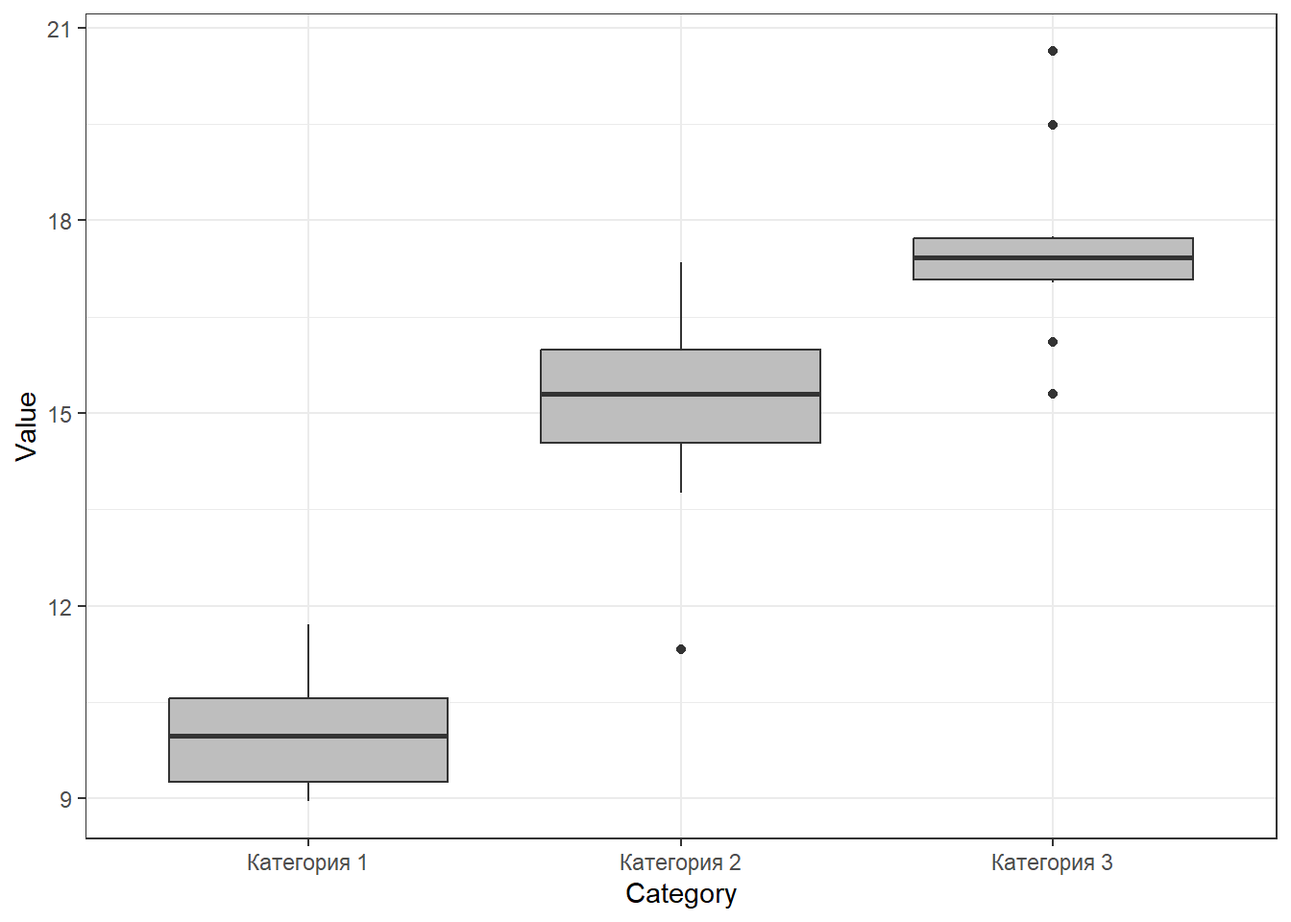
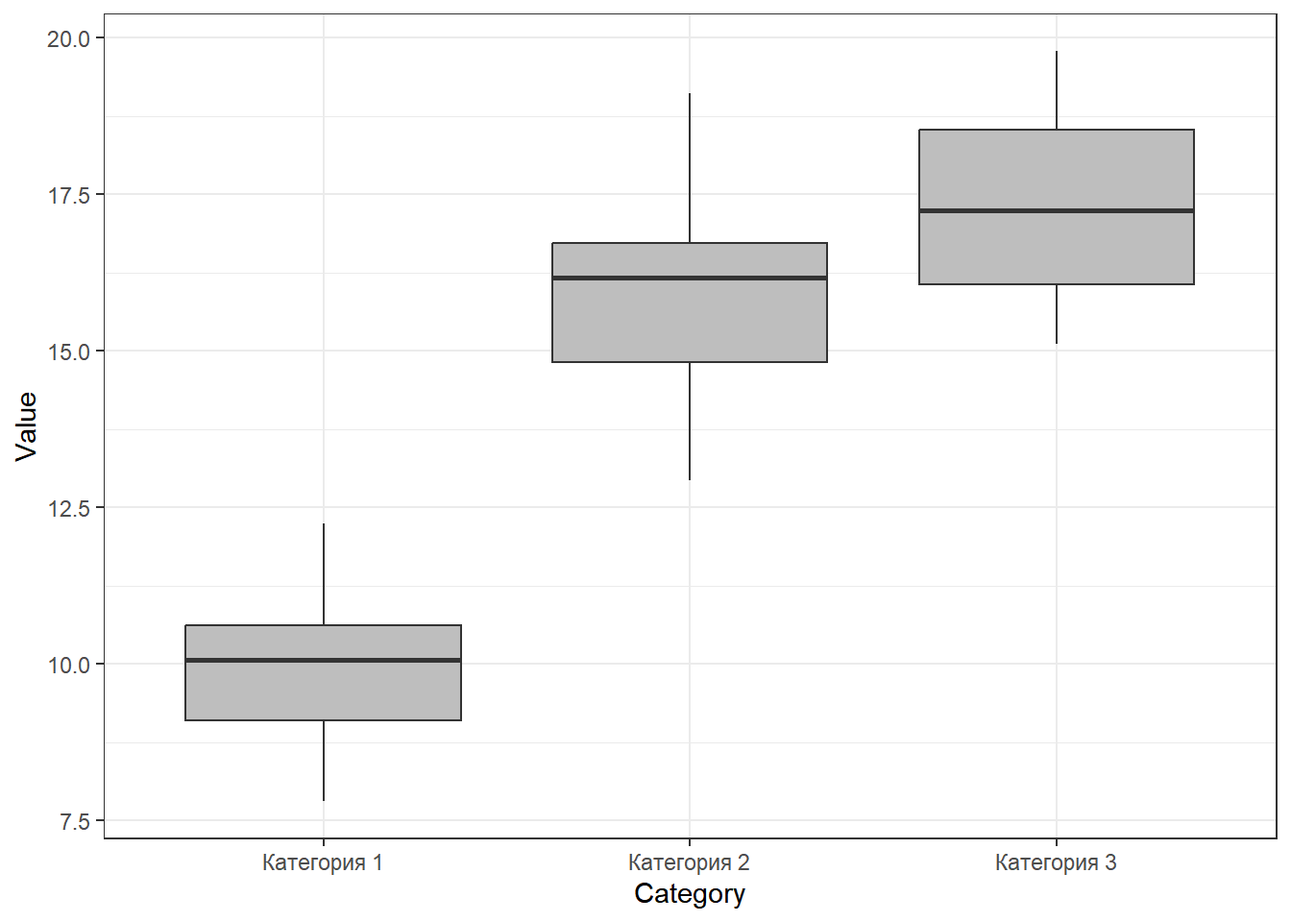
open Anova

diff --git a/lectures.html b/lectures.html
@@ -527,7 +527,7 @@ virginica.</p>
 набить в экселе.</p>
 <p>Для примера, решение аналогичного задания, для вида “setosa” по
 переменной <code>iris$Sepal.Width</code> будет выглядеть вот так.</p>
-<div class="tabwid"><style>.cl-52a8c24a{}.cl-52939852{font-family:'Arial';font-size:11pt;font-weight:normal;font-style:normal;text-decoration:none;color:rgba(0, 0, 0, 1.00);background-color:transparent;}.cl-529c959c{margin:0;text-align:left;border-bottom: 0 solid rgba(0, 0, 0, 1.00);border-top: 0 solid rgba(0, 0, 0, 1.00);border-left: 0 solid rgba(0, 0, 0, 1.00);border-right: 0 solid rgba(0, 0, 0, 1.00);padding-bottom:5pt;padding-top:5pt;padding-left:5pt;padding-right:5pt;line-height: 1;background-color:transparent;}.cl-529c95b0{margin:0;text-align:right;border-bottom: 0 solid rgba(0, 0, 0, 1.00);border-top: 0 solid rgba(0, 0, 0, 1.00);border-left: 0 solid rgba(0, 0, 0, 1.00);border-right: 0 solid rgba(0, 0, 0, 1.00);padding-bottom:5pt;padding-top:5pt;padding-left:5pt;padding-right:5pt;line-height: 1;background-color:transparent;}.cl-529cdb7e{width:0.75in;background-color:transparent;vertical-align: middle;border-bottom: 1.5pt solid rgba(102, 102, 102, 1.00);border-top: 1.5pt solid rgba(102, 102, 102, 1.00);border-left: 0 solid rgba(0, 0, 0, 1.00);border-right: 0 solid rgba(0, 0, 0, 1.00);margin-bottom:0;margin-top:0;margin-left:0;margin-right:0;}.cl-529cdb88{width:0.75in;background-color:transparent;vertical-align: middle;border-bottom: 1.5pt solid rgba(102, 102, 102, 1.00);border-top: 1.5pt solid rgba(102, 102, 102, 1.00);border-left: 0 solid rgba(0, 0, 0, 1.00);border-right: 0 solid rgba(0, 0, 0, 1.00);margin-bottom:0;margin-top:0;margin-left:0;margin-right:0;}.cl-529cdb92{width:0.75in;background-color:transparent;vertical-align: middle;border-bottom: 0 solid rgba(0, 0, 0, 1.00);border-top: 0 solid rgba(0, 0, 0, 1.00);border-left: 0 solid rgba(0, 0, 0, 1.00);border-right: 0 solid rgba(0, 0, 0, 1.00);margin-bottom:0;margin-top:0;margin-left:0;margin-right:0;}.cl-529cdb9c{width:0.75in;background-color:transparent;vertical-align: middle;border-bottom: 0 solid rgba(0, 0, 0, 1.00);border-top: 0 solid rgba(0, 0, 0, 1.00);border-left: 0 solid rgba(0, 0, 0, 1.00);border-right: 0 solid rgba(0, 0, 0, 1.00);margin-bottom:0;margin-top:0;margin-left:0;margin-right:0;}.cl-529cdb9d{width:0.75in;background-color:transparent;vertical-align: middle;border-bottom: 1.5pt solid rgba(102, 102, 102, 1.00);border-top: 0 solid rgba(0, 0, 0, 1.00);border-left: 0 solid rgba(0, 0, 0, 1.00);border-right: 0 solid rgba(0, 0, 0, 1.00);margin-bottom:0;margin-top:0;margin-left:0;margin-right:0;}.cl-529cdb9e{width:0.75in;background-color:transparent;vertical-align: middle;border-bottom: 1.5pt solid rgba(102, 102, 102, 1.00);border-top: 0 solid rgba(0, 0, 0, 1.00);border-left: 0 solid rgba(0, 0, 0, 1.00);border-right: 0 solid rgba(0, 0, 0, 1.00);margin-bottom:0;margin-top:0;margin-left:0;margin-right:0;}</style><table data-quarto-disable-processing='true' class='cl-52a8c24a'><thead><tr style="overflow-wrap:break-word;"><th class="cl-529cdb7e"><p class="cl-529c959c"><span class="cl-52939852">Sepal.Width</span></p></th><th class="cl-529cdb88"><p class="cl-529c95b0"><span class="cl-52939852">Frequency</span></p></th></tr></thead><tbody><tr style="overflow-wrap:break-word;"><td class="cl-529cdb92"><p class="cl-529c959c"><span class="cl-52939852">2.3</span></p></td><td class="cl-529cdb9c"><p class="cl-529c95b0"><span class="cl-52939852">1</span></p></td></tr><tr style="overflow-wrap:break-word;"><td class="cl-529cdb92"><p class="cl-529c959c"><span class="cl-52939852">2.9</span></p></td><td class="cl-529cdb9c"><p class="cl-529c95b0"><span class="cl-52939852">1</span></p></td></tr><tr style="overflow-wrap:break-word;"><td class="cl-529cdb92"><p class="cl-529c959c"><span class="cl-52939852">3</span></p></td><td class="cl-529cdb9c"><p class="cl-529c95b0"><span class="cl-52939852">6</span></p></td></tr><tr style="overflow-wrap:break-word;"><td class="cl-529cdb92"><p class="cl-529c959c"><span class="cl-52939852">3.1</span></p></td><td class="cl-529cdb9c"><p class="cl-529c95b0"><span class="cl-52939852">4</span></p></td></tr><tr style="overflow-wrap:break-word;"><td class="cl-529cdb92"><p class="cl-529c959c"><span class="cl-52939852">3.2</span></p></td><td class="cl-529cdb9c"><p class="cl-529c95b0"><span class="cl-52939852">5</span></p></td></tr><tr style="overflow-wrap:break-word;"><td class="cl-529cdb92"><p class="cl-529c959c"><span class="cl-52939852">3.3</span></p></td><td class="cl-529cdb9c"><p class="cl-529c95b0"><span class="cl-52939852">2</span></p></td></tr><tr style="overflow-wrap:break-word;"><td class="cl-529cdb92"><p class="cl-529c959c"><span class="cl-52939852">3.4</span></p></td><td class="cl-529cdb9c"><p class="cl-529c95b0"><span class="cl-52939852">9</span></p></td></tr><tr style="overflow-wrap:break-word;"><td class="cl-529cdb92"><p class="cl-529c959c"><span class="cl-52939852">3.5</span></p></td><td class="cl-529cdb9c"><p class="cl-529c95b0"><span class="cl-52939852">6</span></p></td></tr><tr style="overflow-wrap:break-word;"><td class="cl-529cdb92"><p class="cl-529c959c"><span class="cl-52939852">3.6</span></p></td><td class="cl-529cdb9c"><p class="cl-529c95b0"><span class="cl-52939852">3</span></p></td></tr><tr style="overflow-wrap:break-word;"><td class="cl-529cdb92"><p class="cl-529c959c"><span class="cl-52939852">3.7</span></p></td><td class="cl-529cdb9c"><p class="cl-529c95b0"><span class="cl-52939852">3</span></p></td></tr><tr style="overflow-wrap:break-word;"><td class="cl-529cdb92"><p class="cl-529c959c"><span class="cl-52939852">3.8</span></p></td><td class="cl-529cdb9c"><p class="cl-529c95b0"><span class="cl-52939852">4</span></p></td></tr><tr style="overflow-wrap:break-word;"><td class="cl-529cdb92"><p class="cl-529c959c"><span class="cl-52939852">3.9</span></p></td><td class="cl-529cdb9c"><p class="cl-529c95b0"><span class="cl-52939852">2</span></p></td></tr><tr style="overflow-wrap:break-word;"><td class="cl-529cdb92"><p class="cl-529c959c"><span class="cl-52939852">4</span></p></td><td class="cl-529cdb9c"><p class="cl-529c95b0"><span class="cl-52939852">1</span></p></td></tr><tr style="overflow-wrap:break-word;"><td class="cl-529cdb92"><p class="cl-529c959c"><span class="cl-52939852">4.1</span></p></td><td class="cl-529cdb9c"><p class="cl-529c95b0"><span class="cl-52939852">1</span></p></td></tr><tr style="overflow-wrap:break-word;"><td class="cl-529cdb92"><p class="cl-529c959c"><span class="cl-52939852">4.2</span></p></td><td class="cl-529cdb9c"><p class="cl-529c95b0"><span class="cl-52939852">1</span></p></td></tr><tr style="overflow-wrap:break-word;"><td class="cl-529cdb9d"><p class="cl-529c959c"><span class="cl-52939852">4.4</span></p></td><td class="cl-529cdb9e"><p class="cl-529c95b0"><span class="cl-52939852">1</span></p></td></tr></tbody></table></div>
+<div class="tabwid"><style>.cl-f9214288{}.cl-f9028e9c{font-family:'Arial';font-size:11pt;font-weight:normal;font-style:normal;text-decoration:none;color:rgba(0, 0, 0, 1.00);background-color:transparent;}.cl-f90c166a{margin:0;text-align:left;border-bottom: 0 solid rgba(0, 0, 0, 1.00);border-top: 0 solid rgba(0, 0, 0, 1.00);border-left: 0 solid rgba(0, 0, 0, 1.00);border-right: 0 solid rgba(0, 0, 0, 1.00);padding-bottom:5pt;padding-top:5pt;padding-left:5pt;padding-right:5pt;line-height: 1;background-color:transparent;}.cl-f90c1674{margin:0;text-align:right;border-bottom: 0 solid rgba(0, 0, 0, 1.00);border-top: 0 solid rgba(0, 0, 0, 1.00);border-left: 0 solid rgba(0, 0, 0, 1.00);border-right: 0 solid rgba(0, 0, 0, 1.00);padding-bottom:5pt;padding-top:5pt;padding-left:5pt;padding-right:5pt;line-height: 1;background-color:transparent;}.cl-f90c5a44{width:0.75in;background-color:transparent;vertical-align: middle;border-bottom: 1.5pt solid rgba(102, 102, 102, 1.00);border-top: 1.5pt solid rgba(102, 102, 102, 1.00);border-left: 0 solid rgba(0, 0, 0, 1.00);border-right: 0 solid rgba(0, 0, 0, 1.00);margin-bottom:0;margin-top:0;margin-left:0;margin-right:0;}.cl-f90c5a58{width:0.75in;background-color:transparent;vertical-align: middle;border-bottom: 1.5pt solid rgba(102, 102, 102, 1.00);border-top: 1.5pt solid rgba(102, 102, 102, 1.00);border-left: 0 solid rgba(0, 0, 0, 1.00);border-right: 0 solid rgba(0, 0, 0, 1.00);margin-bottom:0;margin-top:0;margin-left:0;margin-right:0;}.cl-f90c5a59{width:0.75in;background-color:transparent;vertical-align: middle;border-bottom: 0 solid rgba(0, 0, 0, 1.00);border-top: 0 solid rgba(0, 0, 0, 1.00);border-left: 0 solid rgba(0, 0, 0, 1.00);border-right: 0 solid rgba(0, 0, 0, 1.00);margin-bottom:0;margin-top:0;margin-left:0;margin-right:0;}.cl-f90c5a62{width:0.75in;background-color:transparent;vertical-align: middle;border-bottom: 0 solid rgba(0, 0, 0, 1.00);border-top: 0 solid rgba(0, 0, 0, 1.00);border-left: 0 solid rgba(0, 0, 0, 1.00);border-right: 0 solid rgba(0, 0, 0, 1.00);margin-bottom:0;margin-top:0;margin-left:0;margin-right:0;}.cl-f90c5a6c{width:0.75in;background-color:transparent;vertical-align: middle;border-bottom: 1.5pt solid rgba(102, 102, 102, 1.00);border-top: 0 solid rgba(0, 0, 0, 1.00);border-left: 0 solid rgba(0, 0, 0, 1.00);border-right: 0 solid rgba(0, 0, 0, 1.00);margin-bottom:0;margin-top:0;margin-left:0;margin-right:0;}.cl-f90c5a6d{width:0.75in;background-color:transparent;vertical-align: middle;border-bottom: 1.5pt solid rgba(102, 102, 102, 1.00);border-top: 0 solid rgba(0, 0, 0, 1.00);border-left: 0 solid rgba(0, 0, 0, 1.00);border-right: 0 solid rgba(0, 0, 0, 1.00);margin-bottom:0;margin-top:0;margin-left:0;margin-right:0;}</style><table data-quarto-disable-processing='true' class='cl-f9214288'><thead><tr style="overflow-wrap:break-word;"><th class="cl-f90c5a44"><p class="cl-f90c166a"><span class="cl-f9028e9c">Sepal.Width</span></p></th><th class="cl-f90c5a58"><p class="cl-f90c1674"><span class="cl-f9028e9c">Frequency</span></p></th></tr></thead><tbody><tr style="overflow-wrap:break-word;"><td class="cl-f90c5a59"><p class="cl-f90c166a"><span class="cl-f9028e9c">2.3</span></p></td><td class="cl-f90c5a62"><p class="cl-f90c1674"><span class="cl-f9028e9c">1</span></p></td></tr><tr style="overflow-wrap:break-word;"><td class="cl-f90c5a59"><p class="cl-f90c166a"><span class="cl-f9028e9c">2.9</span></p></td><td class="cl-f90c5a62"><p class="cl-f90c1674"><span class="cl-f9028e9c">1</span></p></td></tr><tr style="overflow-wrap:break-word;"><td class="cl-f90c5a59"><p class="cl-f90c166a"><span class="cl-f9028e9c">3</span></p></td><td class="cl-f90c5a62"><p class="cl-f90c1674"><span class="cl-f9028e9c">6</span></p></td></tr><tr style="overflow-wrap:break-word;"><td class="cl-f90c5a59"><p class="cl-f90c166a"><span class="cl-f9028e9c">3.1</span></p></td><td class="cl-f90c5a62"><p class="cl-f90c1674"><span class="cl-f9028e9c">4</span></p></td></tr><tr style="overflow-wrap:break-word;"><td class="cl-f90c5a59"><p class="cl-f90c166a"><span class="cl-f9028e9c">3.2</span></p></td><td class="cl-f90c5a62"><p class="cl-f90c1674"><span class="cl-f9028e9c">5</span></p></td></tr><tr style="overflow-wrap:break-word;"><td class="cl-f90c5a59"><p class="cl-f90c166a"><span class="cl-f9028e9c">3.3</span></p></td><td class="cl-f90c5a62"><p class="cl-f90c1674"><span class="cl-f9028e9c">2</span></p></td></tr><tr style="overflow-wrap:break-word;"><td class="cl-f90c5a59"><p class="cl-f90c166a"><span class="cl-f9028e9c">3.4</span></p></td><td class="cl-f90c5a62"><p class="cl-f90c1674"><span class="cl-f9028e9c">9</span></p></td></tr><tr style="overflow-wrap:break-word;"><td class="cl-f90c5a59"><p class="cl-f90c166a"><span class="cl-f9028e9c">3.5</span></p></td><td class="cl-f90c5a62"><p class="cl-f90c1674"><span class="cl-f9028e9c">6</span></p></td></tr><tr style="overflow-wrap:break-word;"><td class="cl-f90c5a59"><p class="cl-f90c166a"><span class="cl-f9028e9c">3.6</span></p></td><td class="cl-f90c5a62"><p class="cl-f90c1674"><span class="cl-f9028e9c">3</span></p></td></tr><tr style="overflow-wrap:break-word;"><td class="cl-f90c5a59"><p class="cl-f90c166a"><span class="cl-f9028e9c">3.7</span></p></td><td class="cl-f90c5a62"><p class="cl-f90c1674"><span class="cl-f9028e9c">3</span></p></td></tr><tr style="overflow-wrap:break-word;"><td class="cl-f90c5a59"><p class="cl-f90c166a"><span class="cl-f9028e9c">3.8</span></p></td><td class="cl-f90c5a62"><p class="cl-f90c1674"><span class="cl-f9028e9c">4</span></p></td></tr><tr style="overflow-wrap:break-word;"><td class="cl-f90c5a59"><p class="cl-f90c166a"><span class="cl-f9028e9c">3.9</span></p></td><td class="cl-f90c5a62"><p class="cl-f90c1674"><span class="cl-f9028e9c">2</span></p></td></tr><tr style="overflow-wrap:break-word;"><td class="cl-f90c5a59"><p class="cl-f90c166a"><span class="cl-f9028e9c">4</span></p></td><td class="cl-f90c5a62"><p class="cl-f90c1674"><span class="cl-f9028e9c">1</span></p></td></tr><tr style="overflow-wrap:break-word;"><td class="cl-f90c5a59"><p class="cl-f90c166a"><span class="cl-f9028e9c">4.1</span></p></td><td class="cl-f90c5a62"><p class="cl-f90c1674"><span class="cl-f9028e9c">1</span></p></td></tr><tr style="overflow-wrap:break-word;"><td class="cl-f90c5a59"><p class="cl-f90c166a"><span class="cl-f9028e9c">4.2</span></p></td><td class="cl-f90c5a62"><p class="cl-f90c1674"><span class="cl-f9028e9c">1</span></p></td></tr><tr style="overflow-wrap:break-word;"><td class="cl-f90c5a6c"><p class="cl-f90c166a"><span class="cl-f9028e9c">4.4</span></p></td><td class="cl-f90c5a6d"><p class="cl-f90c1674"><span class="cl-f9028e9c">1</span></p></td></tr></tbody></table></div>
 <p><strong>Полученный датасет необходимо сохранить в формате
 .csv</strong>.</p>
 <p><br> <br></p>
@@ -686,52 +686,81 @@ class="section level2">
 гипотезы и сделать выбор между ними) и визуализировать в виде столбчатой
 диаграммы (необходимо написать код, который ее построит).</p>
 <p><strong>Вариант 1.</strong></p>
-<p>Рост эльфов из вашего отряда (см): 177, 185, 186, 184, 189, 180, 173,
-178, 168, 179, 170, 174, 185, 185, 176</p>
-<p>Рост фигур (см): 163, 168, 149, 166, 173, 162, 154, 161, 165, 165,
-163, 169, 162, 154, 162, 164, 161</p>
+<p>Рост эльфов из вашего отряда (см): 167, 176, 176, 174, 166, 168, 178,
+176, 178, 181, 177, 182, 184, 177, 187</p>
+<p>Рост фигур (см): 176, 165, 165, 156, 160, 167, 176, 161, 164, 168,
+174, 158</p>
 <p><strong>Вариант 2.</strong></p>
-<p>Рост эльфов из вашего отряда (см): 179, 183, 173, 180, 174, 184, 180,
-180, 185, 183, 171, 177, 179, 187, 176</p>
-<p>Рост фигур (см): 195, 184, 186, 194, 191, 194</p>
+<p>Рост эльфов из вашего отряда (см): 181, 176, 178, 190, 181, 173, 178,
+178, 179, 186, 175, 184, 185, 187, 184</p>
+<p>Рост фигур (см): 200, 193, 195, 189, 190, 185, 185, 179</p>
 <p><strong>Вариант 3.</strong></p>
-<p>Рост эльфов из вашего отряда (см): 186, 180, 171, 182, 184, 180, 170,
-185, 183, 179, 181, 176, 176, 169, 178</p>
-<p>Рост фигур (см): 152, 153, 156, 141, 144, 151, 162</p>
+<p>Рост эльфов из вашего отряда (см): 180, 184, 175, 186, 178, 173, 190,
+187, 178, 185, 184, 182, 178, 186, 177</p>
+<p>Рост фигур (см): 143, 156, 165, 138, 141, 150, 142, 146, 146, 144,
+147, 152, 154, 142, 140, 142, 153, 161, 149, 154</p>
 </div>
 </div>
 <div id="однофакторный-дисперсионный-анализ" class="section level1">
 <h1>6. Однофакторный дисперсионный анализ</h1>
 <p><br></p>
-<!-- [Презентация про ANOVA](05_anova1.html) -->
-<!-- ## Домашнее задание -->
-<!-- Скачайте файл, в котором находятся данные по метеорологическим наблюдениям на территории Кандалакшского заповедника. Файл поместите в папку `Data` (ну или как она у вас называется) -->
-<!-- - [Данные](data/hydrology_2022.xls) -->
-<!-- **Ваша миссия** -->
-<!-- 1. Необходимо выяснить наблюдаются ли различия между тремя летними месяцами (нужно будет провести дисперсионный анализ) в том параметре, котоый будет у вашего варианта. -->
-<!-- 2. Проведите анализ остатков и оцените, выполняются ли условия применимости ANOVA. -->
-<!-- 3. Визуализируйте с помощью столбчатой диаграммы (с доверительными интервалами) средние значения. Проведя post-hoc сравнение средних, обозначьте на рисунке те средние, которые отличаются друг от друга по критерию Тьюки. -->
+<p><a href="05_anova1.html">Презентация про ANOVA</a></p>
+<div id="домашнее-задание-5" class="section level2">
+<h2>Домашнее задание</h2>
+<p>Скачайте файл, в котором находятся данные по метеорологическим
+наблюдениям на территории Кандалакшского заповедника. Файл поместите в
+папку <code>Data</code> (ну или как она у вас называется)</p>
+<ul>
+<li><a href="data/hydrology_2022.xls">Данные</a></li>
+</ul>
+<p><strong>Ваша миссия</strong></p>
+<ol style="list-style-type: decimal">
+<li><p>Необходимо выяснить наблюдаются ли различия между тремя летними
+месяцами (нужно будет провести дисперсионный анализ) в том параметре,
+котоый будет у вашего варианта.</p></li>
+<li><p>Проведите анализ остатков и оцените, выполняются ли условия
+применимости ANOVA.</p></li>
+<li><p>Визуализируйте с помощью столбчатой диаграммы (с доверительными
+интервалами) средние значения. Проведя post-hoc сравнение средних,
+обозначьте на рисунке те средние, которые отличаются друг от друга по
+критерию Тьюки.</p></li>
+</ol>
 <!-- <!-- 4. Результаты ваших действий с соответствующими текстовыми комментариями должны быть оформлены в виде **html-файла** (именно его и надо прислать!), который вы сгенерируете из RMD файла. При этом, код из чанков должен быть виден в итоговом html-файле (в настроечном чанке оставьте `echo = TRUE`). -->
 <p>–&gt;</p>
-<!-- *Варианты:* -->
-<!-- Вариант 1. Анализ солености (переменная **S**) -->
-<!-- Вариант 2. Анализ температуры воздуха (переменная **Air_T**) -->
-<!-- Вариант 3. Анализ температуры воды (переменная **Water_T**) -->
+<p><em>Варианты:</em></p>
+<p>Вариант 1. Анализ солености (переменная <strong>S</strong>)</p>
+<p>Вариант 2. Анализ температуры воздуха (переменная
+<strong>Air_T</strong>)</p>
+<p>Вариант 3. Анализ температуры воды (переменная
+<strong>Water_T</strong>)</p>
+</div>
 </div>
 <div id="двухфакторный-дисперсионный-анализ" class="section level1">
 <h1>7. Двухфакторный дисперсионный анализ</h1>
 <p><br></p>
-<!-- - [Презентация про двухфакторный ANOVA](06_anova2.html) -->
-<!-- - [Данные для работы](data/eysenck.csv) -->
-<!-- ## Домашнее задание -->
-<!-- **Ваша миссия** -->
-<!-- Во всех случаях надо провести двухфакторный дисперсионный анализ.  -->
-<!-- Все результаты надо сопроводить короткими текстами с рассказом что вы увидели и что это означает (вставляете в виде комментариев). Во всех случаях надо не забыть произвести проверку на условия применимости анализа.  -->
-<!-- Рекомендуется ознакомиться с оригинальными работами, на базе которых были получены датасеты. Ссылки на работы даются в комментариях к скрипту. -->
-<!-- Задания -->
-<!-- - [Вариант 1](Home_work_Pinguins.R) -->
-<!-- - [Вариант 2](Home_work_ris.R) -->
-<!-- - [Вариант 3](Home_work_Sendvich.R) -->
+<ul>
+<li><p><a href="06_anova2.html">Презентация про двухфакторный
+ANOVA</a></p></li>
+<li><p><a href="data/eysenck.csv">Данные для работы</a></p></li>
+</ul>
+<div id="домашнее-задание-6" class="section level2">
+<h2>Домашнее задание</h2>
+<p><strong>Ваша миссия</strong></p>
+<p>Во всех случаях надо провести двухфакторный дисперсионный анализ.</p>
+<p>Все результаты надо сопроводить короткими текстами с рассказом что вы
+увидели и что это означает (вставляете в виде комментариев). Во всех
+случаях надо не забыть произвести проверку на условия применимости
+анализа.</p>
+<p>Рекомендуется ознакомиться с оригинальными работами, на базе которых
+были получены датасеты. Ссылки на работы даются в комментариях к
+скрипту.</p>
+<p>Задания</p>
+<ul>
+<li><a href="Home_work_Pinguins.R">Вариант 1</a></li>
+<li><a href="Home_work_ris.R">Вариант 2</a></li>
+<li><a href="Home_work_Sendvich.R">Вариант 3</a></li>
+</ul>
+</div>
 </div>
 <div id="регрессионный-анализ" class="section level1">
 <h1>8. Регрессионный анализ</h1>
